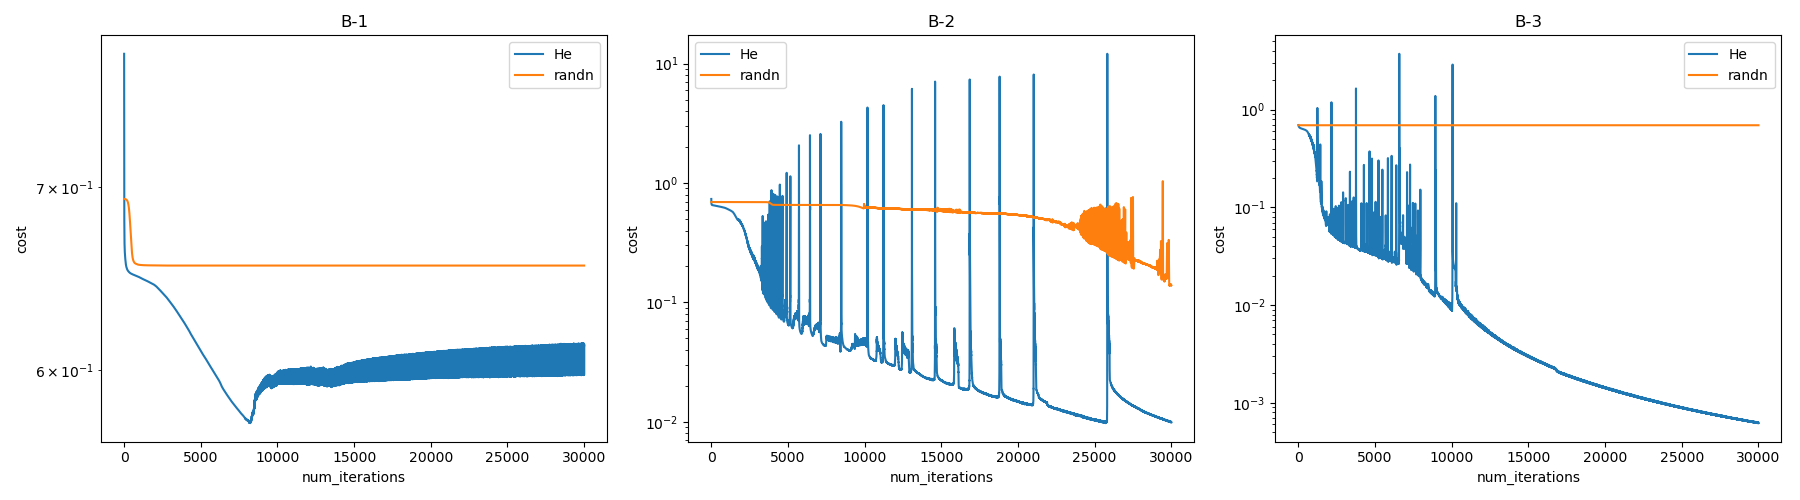
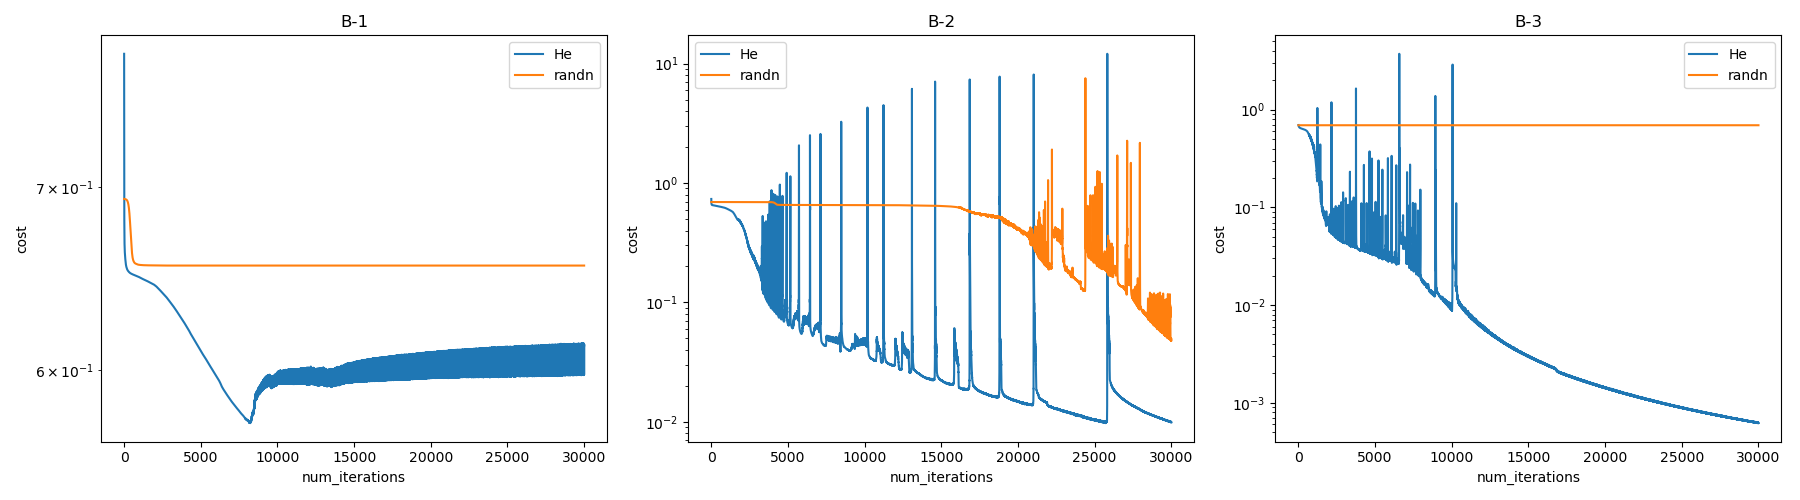
course 4 code image update

Changed region(s): [[0.4667, 0.3, 0.6533, 0.69]]

diff --git a/src/assignments/03-deep-neural-nn/deep_nn.py b/src/assignments/03-deep-neural-nn/deep_nn.py
@@ -455,12 +455,12 @@ def experiment_B(X,Y,X_test,Y_test):
 
     historys_randn=[]
 
-    np.random.seed(0)
+
 
     for i in range(1,L+1):
         parameters = {}
         layer_dims=B_layer_dim[f"B-{i}"]
-
+        np.random.seed(0)
         for l in range(1,len(layer_dims)):
 
             parameters[f"W{l}"] = np.random.randn(layer_dims[l], layer_dims[l-1])*0.01

diff --git a/src/assignments/03-deep-neural-nn/notes.md b/src/assignments/03-deep-neural-nn/notes.md
@@ -93,7 +93,7 @@
 ```
 
 결과 
-> 훈련 정확도: 0.9975 시험 정확도:  0.956
+> 훈련 정확도: 0.9975 시험 정확도:  0.951
 
 <hr>
 
@@ -157,8 +157,8 @@
 | # | layer_dims | He 초기화 | randn  | 
 | :-- | --: | --: | --: | 
 | B-1 | [2, 16, 1]   | 70.1% | 61.4% |
-| B-2 | [2, 16, 16, 1] | 95.1% | 90.8% |
-| B-3 | [2, 32, 16, 8, 1] | 94.6% |	62% |
+| B-2 | [2, 16, 16, 1] | 95.1% | 94.3% |
+| B-3 | [2, 32, 16, 8, 1] | 94.6% |	62.7% |
 
 <hr>
 
